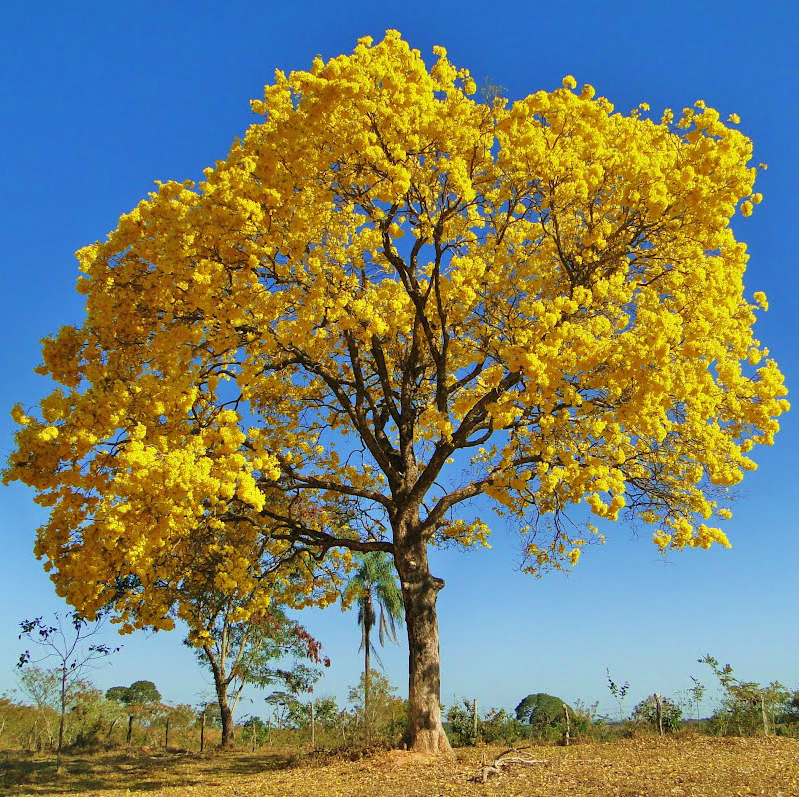
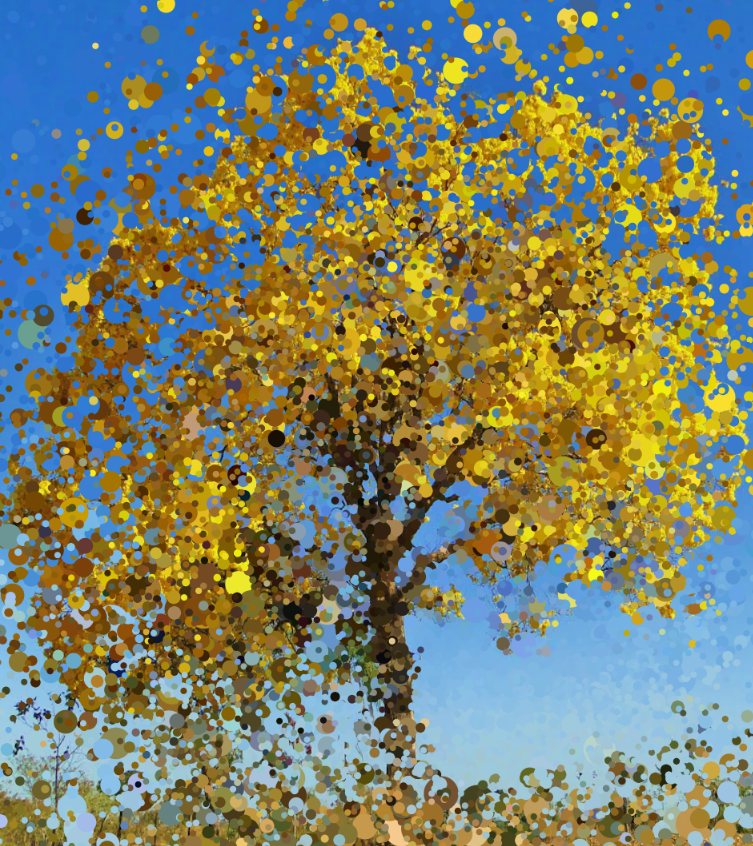
feat/ fix chaos tree and cloud bubble

diff --git a/src/compositions/p5/chaosTree.js b/src/compositions/p5/chaosTree.js
@@ -1,47 +1,77 @@
 // inspired by: https://openprocessing.org/sketch/732455
 
-var img,
-		particles = [],
-		bg;
-
-function preload(){
-	img = loadImage('../assets/chaos-tree.png');
-}
-
-function setup(){
-	createCanvas(windowWidth, windowHeight);
-	  img.resize(windowWidth, windowHeight);
-
-	for (let i = 1; i > 0; i -= 0.0001) {
-		const x = random(windowWidth),
-					y = random(windowHeight),
-					size = 40 * Math.pow(random(i), 2) + 8;
-		
-		if (!particles.some(p => Math.pow(p.x - x, 2) + Math.pow(p.y - y, 2) < Math.pow(size / 2 + p.size / 2 - 2, 2)))
-			particles.push(new Particle(x, y, size));
-	}
-	
-	bg = img.get(0, 0);
-	
-	noStroke();
-}
-
-function draw(){
-	image(img, 0, 0);
-	
-	for (const particle of particles) {
-		fill(particle.col);
-		const t = 1 - 5e-4 * (Math.pow(particle.pos.x - mouseX, 2) + Math.pow(particle.pos.y - mouseY, 2)),
-					p = p5.Vector.mult(particle.pos, 1 - t).add(p5.Vector.mult(particle.tgt, t));
-		circle(p.x, p.y, particle.size);
-	}
-}
-
 class Particle {
-	constructor(x, y, size){
-		this.pos = new p5.Vector(x, y);
-		this.tgt = p5.Vector.random2D().add(this.pos);
-		this.size = size;
-		this.col = img.get(x, y);
+	constructor(x, y, size, img) {
+	  this.pos = createVector(x, y);
+	  this.tgt = createVector(random(-1, 1) + x, random(-1, 1) + y);
+	  this.size = size;
+	  this.col = img.get(x, y);
 	}
-}
+  }
+  
+  const [width, height] = [innerWidth, innerHeight];
+  let particles = [];
+  let imageUrl = `https://i.postimg.cc/25583Gf1/chaos-tree.png`;
+  let img = null;
+  
+  function isInsideCanvas(x, y) {
+	return x < img.width && x > 0 && y < img.height && y > 0;
+  }
+  
+  function distanceSquared(x1, y1, x2, y2) {
+	return Math.pow(x2 - x1, 2) + Math.pow(y2 - y1, 2);
+  }
+  
+  function overlap(x1, y1, diam1, x2, y2, diam2) {
+	return (
+	  distanceSquared(x1, y1, x2, y2) < Math.pow(diam2 / 2 + diam1 / 2 - 2, 2)
+	);
+  }
+  
+  function preload() {
+	img = loadImage(imageUrl);
+  }
+  
+  function setup() {
+	img.resize(
+	  width || window.screen.availWidth,
+	  height || window.screen.availHeight - 100,
+	);
+  
+	createCanvas(img.width, img.height);
+  
+	image(img, 0, 0);
+	frameRate(20);
+  
+	for (let i = 1; i > 0; i -= 0.0001) {
+	  const x = random(img.width);
+	  const y = random(img.height);
+	  const size = 40 * Math.pow(random(i), 2) + 8;
+  
+	  if (!particles.some((p) => overlap(x, y, size, p.pos.x, p.pos.y, p.size))) {
+		particles.push(new Particle(x, y, size, img));
+	  }
+	}
+	noStroke();
+  }
+  
+  function draw() {
+	if (isInsideCanvas(mouseX, mouseY)) {
+	  image(img, 0, 0);
+  
+	  for (const particle of particles) {
+		const t =
+		  1 -
+		  5e-4 *
+			(Math.pow(particle.pos.x - mouseX, 2) +
+			  Math.pow(particle.pos.y - mouseY, 2));
+		const p = [
+		  (1 - t) * particle.pos.x + particle.tgt.x * t,
+		  (1 - t) * particle.pos.y + particle.tgt.y * t,
+		];
+  
+		fill(particle.col);
+		circle(p[0], p[1], particle.size);
+	  }
+	}
+  }
